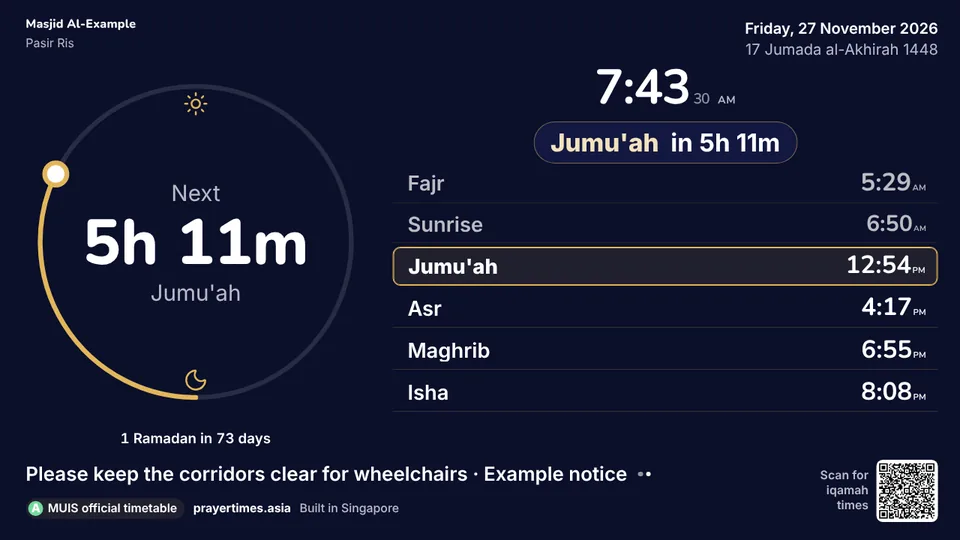
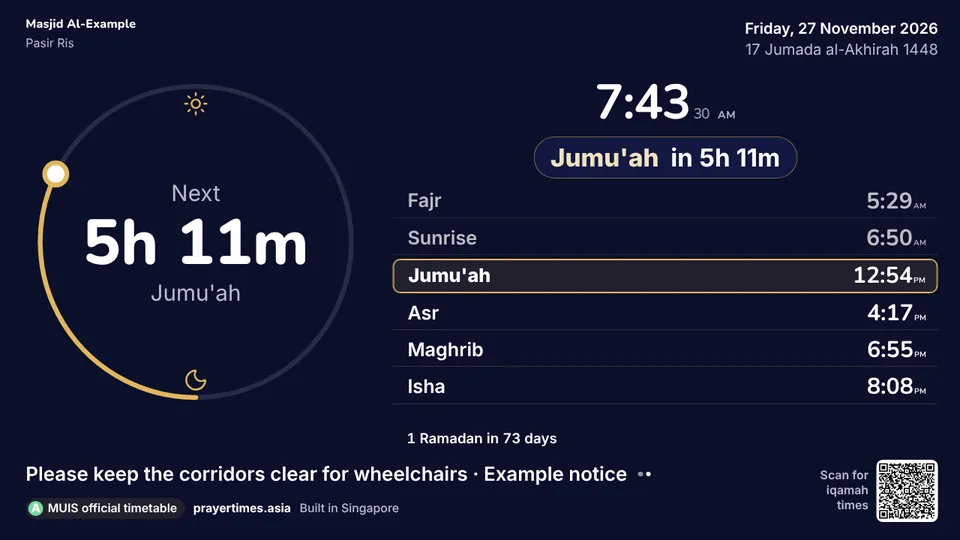
TV dial looks: khutbah wording on Friday, ribbons span full width, fit Imsak row, refreshed pictures
Claude-Session: https://claude.ai/code/session_012paKCDQUnJNDpyWjWPtVQo

diff --git a/web/src/screen/screen.css b/web/src/screen/screen.css
@@ -420,13 +420,13 @@ button, input, select, textarea { font: inherit; color: inherit; }
 .scr-clockbig small { margin-left: 0.7em; }
 
 /* The right side: the clock, then the six times as rows (name on the left, time on the right). */
-.scr-side { display: flex; flex-direction: column; justify-content: center; gap: calc(var(--u) * 1.6); min-height: 0; min-width: 0; }
+.scr-side { display: flex; flex-direction: column; justify-content: center; gap: calc(var(--u) * 1.2); min-height: 0; min-width: 0; }
 .scr-side .scr-hero { gap: calc(var(--u) * 0.8); }
 .landscape .scr .scr-side .scr-big { font-size: calc(var(--u) * 9); }
 .scr .scr-side .scr-grid { grid-auto-flow: row; grid-template-columns: 1fr; grid-auto-columns: auto; gap: calc(var(--u) * 0.7); }
-.scr .scr-side .scr-grid .scr-cell { grid-template-columns: 1fr auto; justify-items: stretch; align-items: center; column-gap: calc(var(--u) * 2); row-gap: 0; padding: calc(var(--u) * 0.95) calc(var(--u) * 2.2) calc(var(--u) * 0.95) calc(var(--u) * 2.8); border-radius: calc(var(--u) * 1.8); }
-.scr .scr-side .scr-grid .scr-cell .scr-name { grid-column: 1; font-size: calc(var(--u) * 3.8); }
-.scr .scr-side .scr-grid .scr-cell .scr-t { grid-column: 2; font-size: calc(var(--u) * 4.6); font-weight: 700; justify-self: end; }
+.scr .scr-side .scr-grid .scr-cell { grid-template-columns: 1fr auto; justify-items: stretch; align-items: center; column-gap: calc(var(--u) * 2); row-gap: 0; padding: calc(var(--u) * 0.7) calc(var(--u) * 2.2) calc(var(--u) * 0.7) calc(var(--u) * 2.8); border-radius: calc(var(--u) * 1.8); }
+.scr .scr-side .scr-grid .scr-cell .scr-name { grid-column: 1; font-size: calc(var(--u) * 3.5); }
+.scr .scr-side .scr-grid .scr-cell .scr-t { grid-column: 2; font-size: calc(var(--u) * 4.2); font-weight: 700; justify-self: end; }
 .scr .scr-side .scr-grid .scr-cell .scr-iq { grid-column: 1 / -1; font-size: calc(var(--u) * 2.2); }
 .scr .scr-side .scr-grid .scr-cell .scr-bar { left: calc(var(--u) * 0.9); right: auto; top: 22%; bottom: 22%; width: calc(var(--u) * 0.45); height: auto; }
 .scr.scr-look-surau .scr-side .scr-bar { display: none; }
@@ -436,3 +436,5 @@ button, input, select, textarea { font: inherit; color: inherit; }
 .scr.scr-look-dial .scr-side .scr-grid .scr-cell.on .scr-name { color: var(--fg); }
 
 .scr .scr-side .scr-grid .scr-syuruk .scr-t, .scr .scr-side .scr-grid .scr-imsak .scr-t { font-size: calc(var(--u) * 4.2); }
+
+.landscape .scr-look-dial .scr-ramadan, .landscape .scr-look-dial .scr-friday, .landscape .scr-look-surau .scr-ramadan, .landscape .scr-look-surau .scr-friday { grid-column: 1 / -1; }

diff --git a/web/src/screen/Display.tsx b/web/src/screen/Display.tsx
@@ -133,7 +133,8 @@ function AppDial({ phase, now, config: c, label, day: sd }: {
   if (phase.kind === 'azan') {
     kicker = `${w.azan} ${label(phase.prayer)}`
     count = phase.iqamah != null ? countdown(phase.iqamah - now) : ''
-    line = phase.iqamah != null ? w.iqamahIn : ''
+    const jumuah = phase.prayer === 'dhuhr' && phase.day.friday && !!c.jumuah
+    line = phase.iqamah != null ? (jumuah ? w.khutbahIn : w.iqamahIn) : ''
   } else if (phase.kind === 'waiting') {
     kicker = w.next
     count = c.hide.countdown ? '' : shortLeft(phase.at - now)
